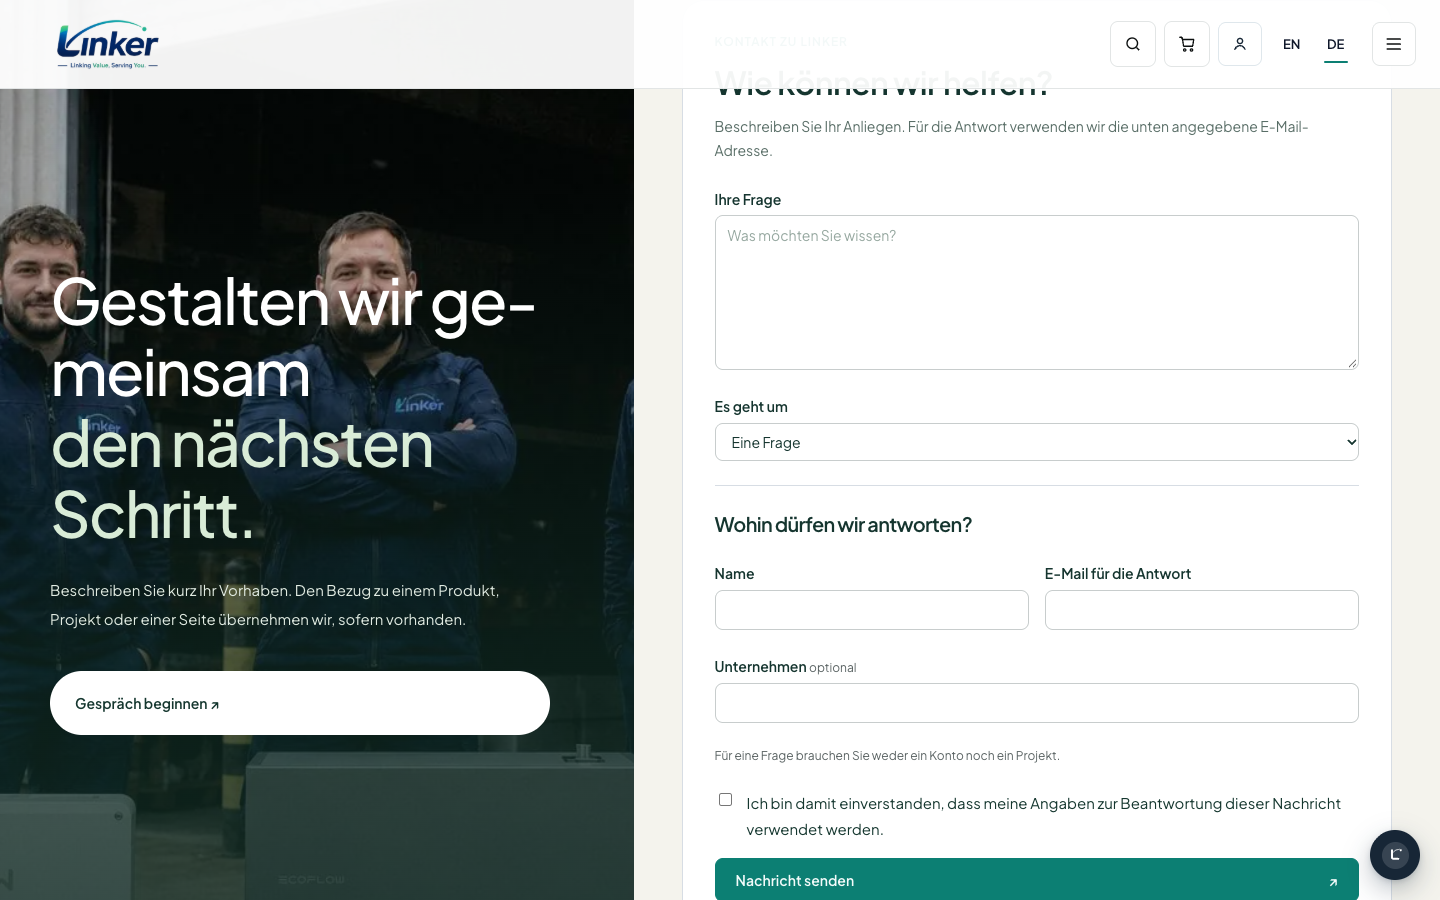
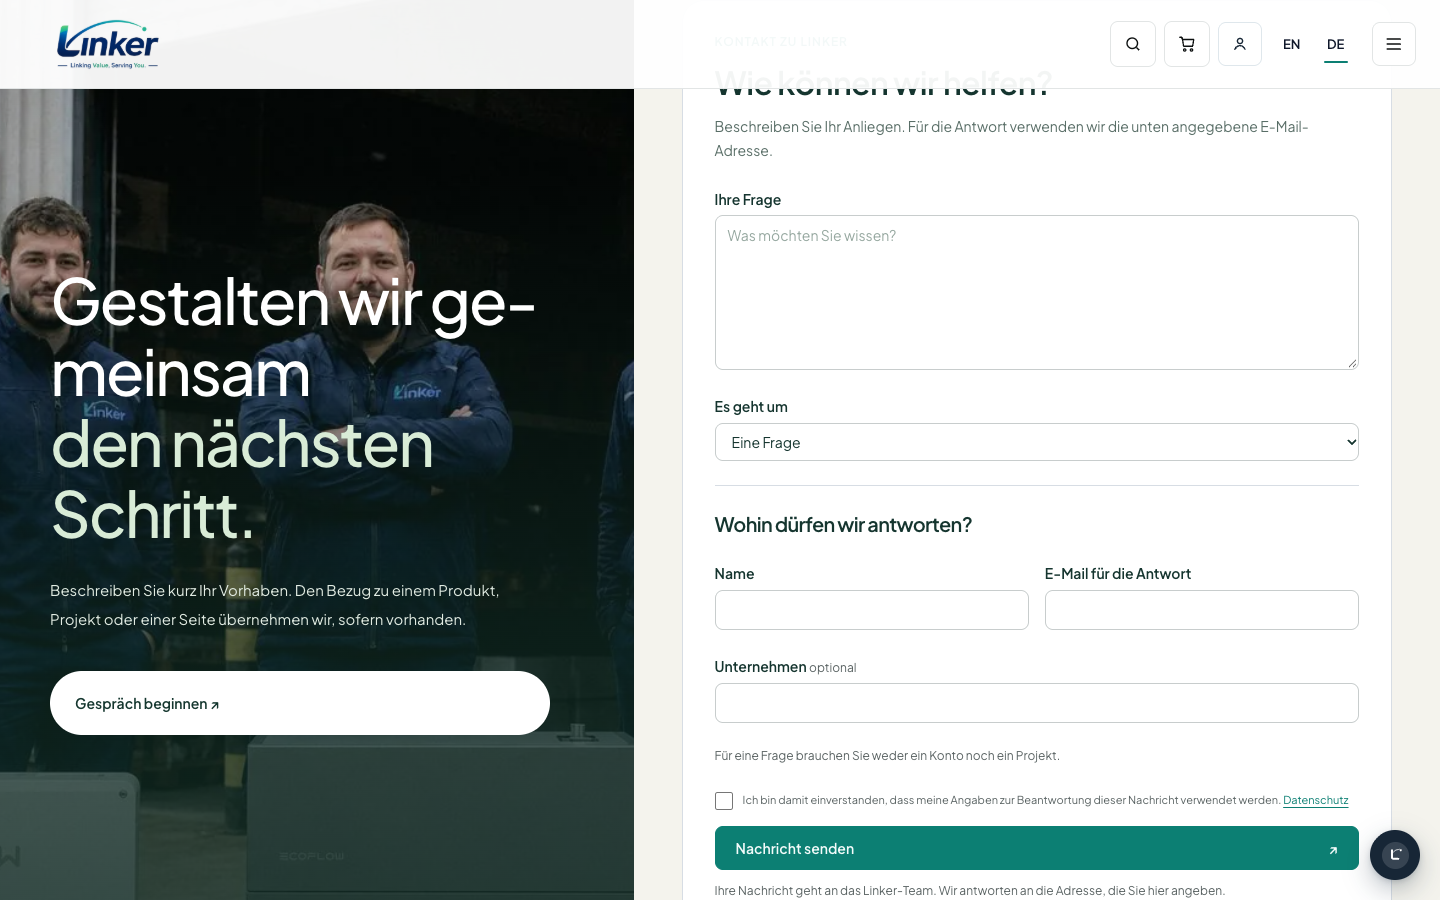
fix(closure-contact-design): 同意行落进卡样式表 + 渲染异常根因实测（评审第二轮）
必改 1（同意行自带落地）：content/windpress/contact-card.css 新增三条规则承载同意行——
字号 11px/行高 1.85、色 --proto-neutral-500、间距 10px、复选框 18×18/上边距 2px/
accent --proto-accent、链接 --proto-teal-600 + underline + offset 3px。取值取旧线上参考卡
（contact-journal.css 的 .lkc-check 系列），颜色用现行 tokens；理由与候选对比（#68 的
12px/neutral-600 + 默认 13px 方框不取）写进 copy-review.md 新增 §2b。机读实测（1440/390 ×
EN/DE 四格一致）：consent 11px / line-height 20.35px / rgb(90,99,99) / gap 10px；
box 18×18 / margin-top 2px / accent rgb(12,127,115)；link teal + underline + offset 3px。
实例原先没设隐私政策页（链接不渲染），本轮 wp option update wp_page_for_privacy_policy 1673
后链接出现并量到上表。

必改 2（README 收口段改写）：删掉"成因不追"，写入实测根因——编译缓存里未分层的
`:where(#lc-header, #lc-footer, body[data-page] #theme-main) :where(*){all: revert}`
（另有 `#theme-main:where(body[data-page] *){all: revert}`）压过 @layer utilities，
故 #theme-main 内容区内工具类全部失效；第一轮 167px 的读数就是 display 被 revert 的结果。
probe-card.mjs 的控制探针改为**两个位置**（body 与 #theme-main 各挂一个同 class 的 div），
读数 outside {grid,12px,neutral-600,4px} / inside {block,16px,ink,0px}，README 的
"工具类可用"改为有前提表述；并写明范围：ComparePage 12 处、LibraryPage 11 处、
Shortcodes 1 处、Form 2 处（本票已覆盖卡上两处），未逐面核，不按"已关闭"记。

必改 3（PR 正文）：Contact 组数字改为"29 用例、3 个集成用例在单元配置下按设计 skip、
集成配置下 3/3 通过"。

复跑：phpunit 995/4802/51 OK；--filter Contact 29/165/3 skip；phpcs 无输出；phpstan
[OK] No errors；i18n-coverage gap=0；i18n-validity clean；banned-words clean。

diff --git a/plugins/linker-commerce/content/windpress/contact-card.css b/plugins/linker-commerce/content/windpress/contact-card.css
@@ -164,10 +164,35 @@
 	gap: var(--proto-space-3);
 }
 
+/* The consent row lands here too — the markup's utility classes are inert
+ * inside #theme-main (the compiled cache carries an unlayered
+ * `:where(#lc-header, #lc-footer, body[data-page] #theme-main) :where(*){all:
+ * revert}` that beats @layer utilities; measured, see the acceptance record).
+ * Values are the live card's row (11px line on 1.85, an 18×18 box with a 2px
+ * top margin, the link underlined with a 3px offset, 10px between box and
+ * text); the colours are the site's tokens, in place of the card's old mint
+ * and green. */
 #contact-form .linker-contact-card .linker-form-consent {
 	display: flex;
 	align-items: flex-start;
-	gap: var(--proto-space-3);
+	gap: 10px;
+	font-size: 11px;
+	line-height: 1.85;
+	color: var(--proto-neutral-500);
+}
+
+#contact-form .linker-contact-card .linker-form-consent input[type="checkbox"] {
+	width: 18px;
+	height: 18px;
+	flex: 0 0 18px;
+	margin: 2px 0 0;
+	accent-color: var(--proto-accent);
+}
+
+#contact-form .linker-contact-card .linker-form-consent a {
+	color: var(--proto-teal-600);
+	text-decoration: underline;
+	text-underline-offset: 3px;
 }
 
 /* The two side cards under the form (22px of padding and a 20px radius on the

diff --git a/docs/acceptance/2026-10-15/contact-card/copy-review.md b/docs/acceptance/2026-10-15/contact-card/copy-review.md
@@ -55,6 +55,31 @@ Hard Stops + 线上既有措辞与 `.po` 术语。定稿即 `.po` 的 msgstr 与
   **定稿**同初稿：`This is about: %s` / `Es geht um: %s`。
 - 说明：本行不承载复信路由（`Reply-to` 仍是客户地址，先于本行），也不进入客户回执。
 
+## 2b. 同意行的取值选择（几何取旧线上、颜色取现行 tokens）
+
+同意行（`.linker-form-consent`）的可见几何本票取**旧线上参考卡**的值，不取 #68 登记过的
+`text-xs text-neutral-600` 意图：
+
+| 项 | 取值 | 来源 |
+|---|---|---|
+| 行字号 / 行高 | 11px / 1.85 | 旧线上卡 `contact-journal.css` 的 `.lkc-check{font-size:11px;line-height:1.85}` |
+| 行颜色 | `--proto-neutral-500` | 旧线上是 `--cp-muted`（旧卡绿灰）；按清账要求颜色用现行 tokens |
+| 复选框 | 18×18、上边距 2px、`accent-color: var(--proto-accent)` | 旧线上 `.lkc-check input{width:18px;height:18px;margin:2px 0 0}`；色用现行 token |
+| Privacy 链接 | `--proto-teal-600`、下划线、offset 3px | 旧线上 `.lkc-check a{color:var(--cp-teal);text-decoration:underline;text-underline-offset:3px}` |
+| 方框与文字间距 | 10px | 旧线上 `.lkc-check{gap:10px}` |
+
+理由：/contact/ 是复刻面、像素门按旧线上卡逐行比，同意行是可见面；几何照旧线上可少一条
+登记差异，颜色一律落在现行 tokens（清账泳道明令"只移植组成/结构/间距，颜色用现行 tokens"）。
+另一条候选（#68 的 12px/`neutral-600` + 浏览器默认 13px 方框）不取：它小于旧线上一档、
+且方框明显更小，会在像素门上留下整行差异。实测（本机机读，1440/390 × EN/DE 四格一致）：
+字号 11px、行高 20.35px、色 `rgb(90,99,99)`、方框 18×18/2px、链接 `rgb(12,127,115)` +
+underline + offset 3px。
+
+为什么这行要写进本记录而不是只写进验收 README：上一轮该行的样式落在标记的工具类上，
+在 `#theme-main` 内被编译缓存里一条未分层的 `all: revert` 规则吃掉（实测见
+`docs/acceptance/2026-10-15/contact-card/README.md`），计算值是 15px / 13×13 —— 即
+**"取哪个值"这件事当时并没有真正落地**。本轮把它移进卡自己的样式表，本表即其定稿。
+
 ## 3. 本票相对旧线上卡面的**有意差异**（供像素门登记）
 
 移植目标面是复刻面在像素门内，因此下列与旧线上原文不同处须逐条进变更台账、给业主过目
